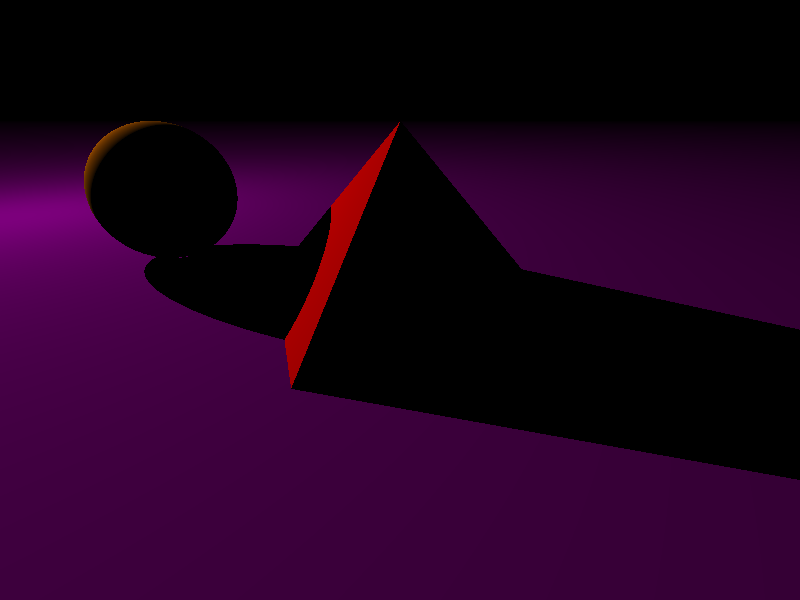
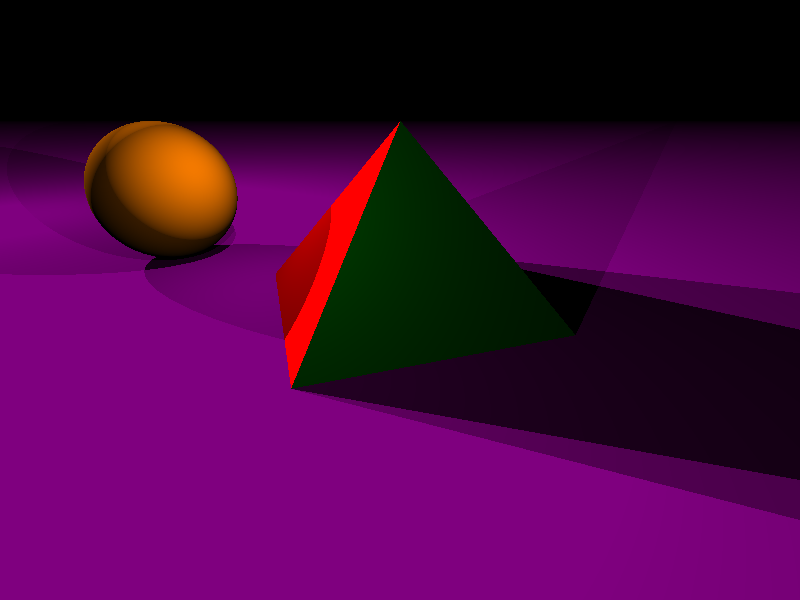
hotfix

diff --git a/src/entity/scene.cpp b/src/entity/scene.cpp
@@ -104,7 +104,7 @@ Color Scene::brightness(const Ray& ray, SurfaceIntersection surface, const Box& 
 
     Ray temp(matched, dir);
 
-    double delta = 1.0;
+    double delta = 0.01;
 
     Ray lightRay(temp.pointAt(delta), dir);
 
@@ -114,6 +114,8 @@ Color Scene::brightness(const Ray& ray, SurfaceIntersection surface, const Box& 
 
     if(cmp(opaqueSurface.first.distance, toLight.norm()) != 1) return Color(0, 0, 0);
     Color color = light.getIntensity();
+
+    if(cmp(lightRay.direction.angle(surface.normal), PI/2.0) != -1) return Color(0, 0, 0);
 
     double diffuse = box.getDiffuseCoefficient() * (lightRay.direction.dot(surface.normal));
     double specular = box.getSpecularCoefficient() * std::pow(lightRay.direction.dot(surface.normal), box.getRoughnessCoefficient());
